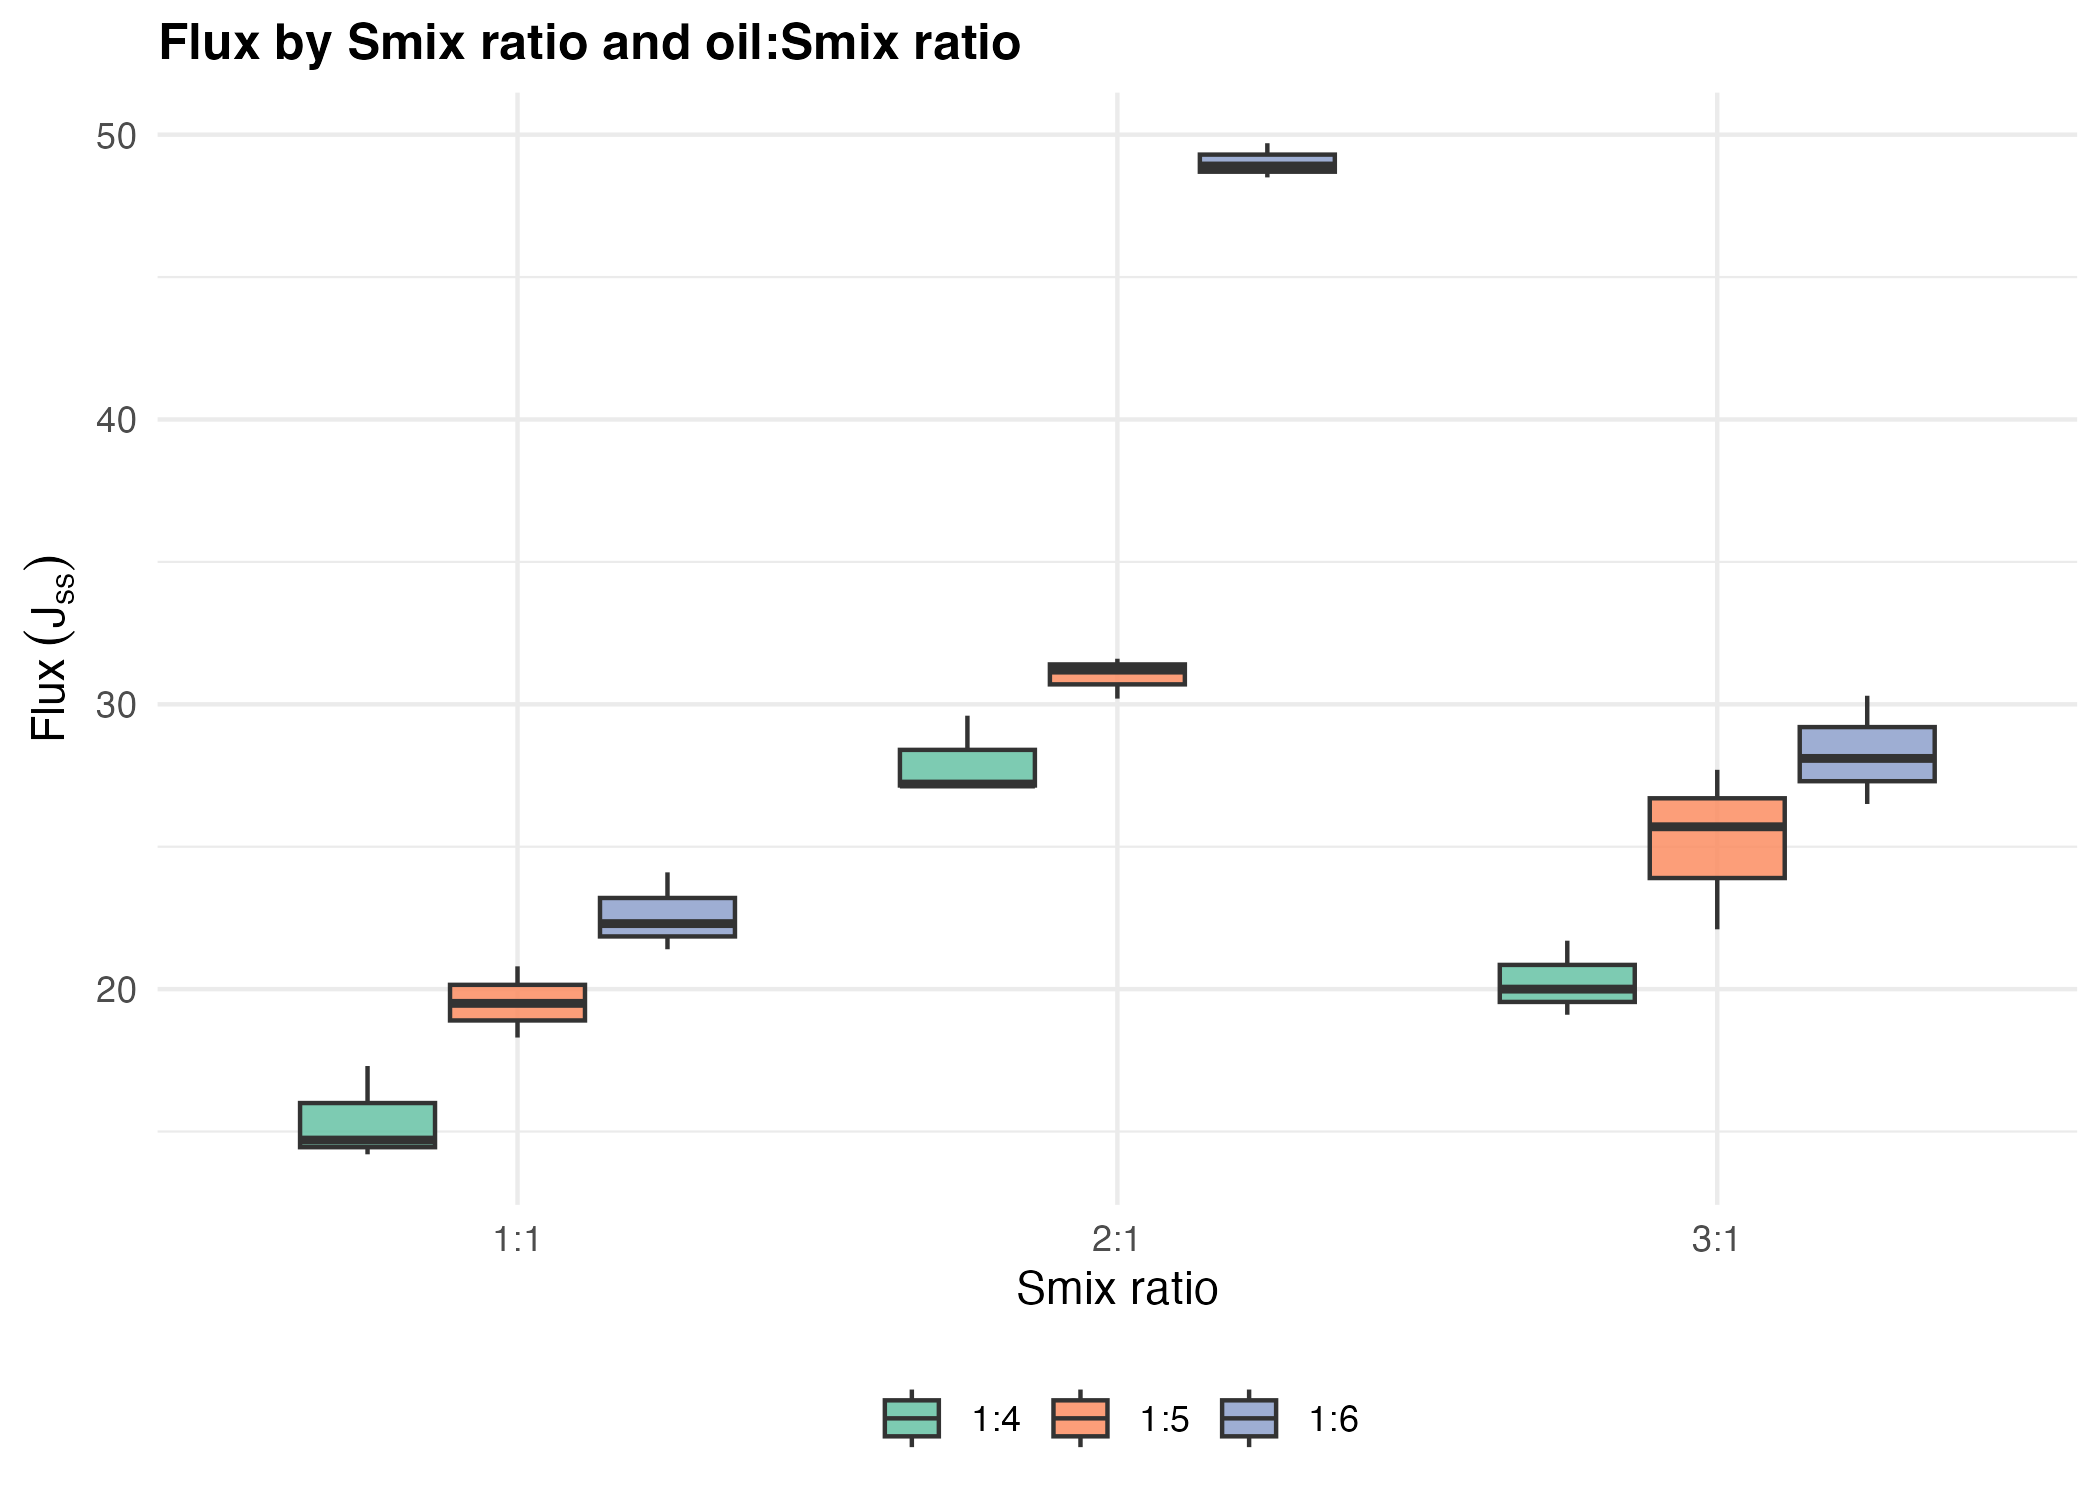
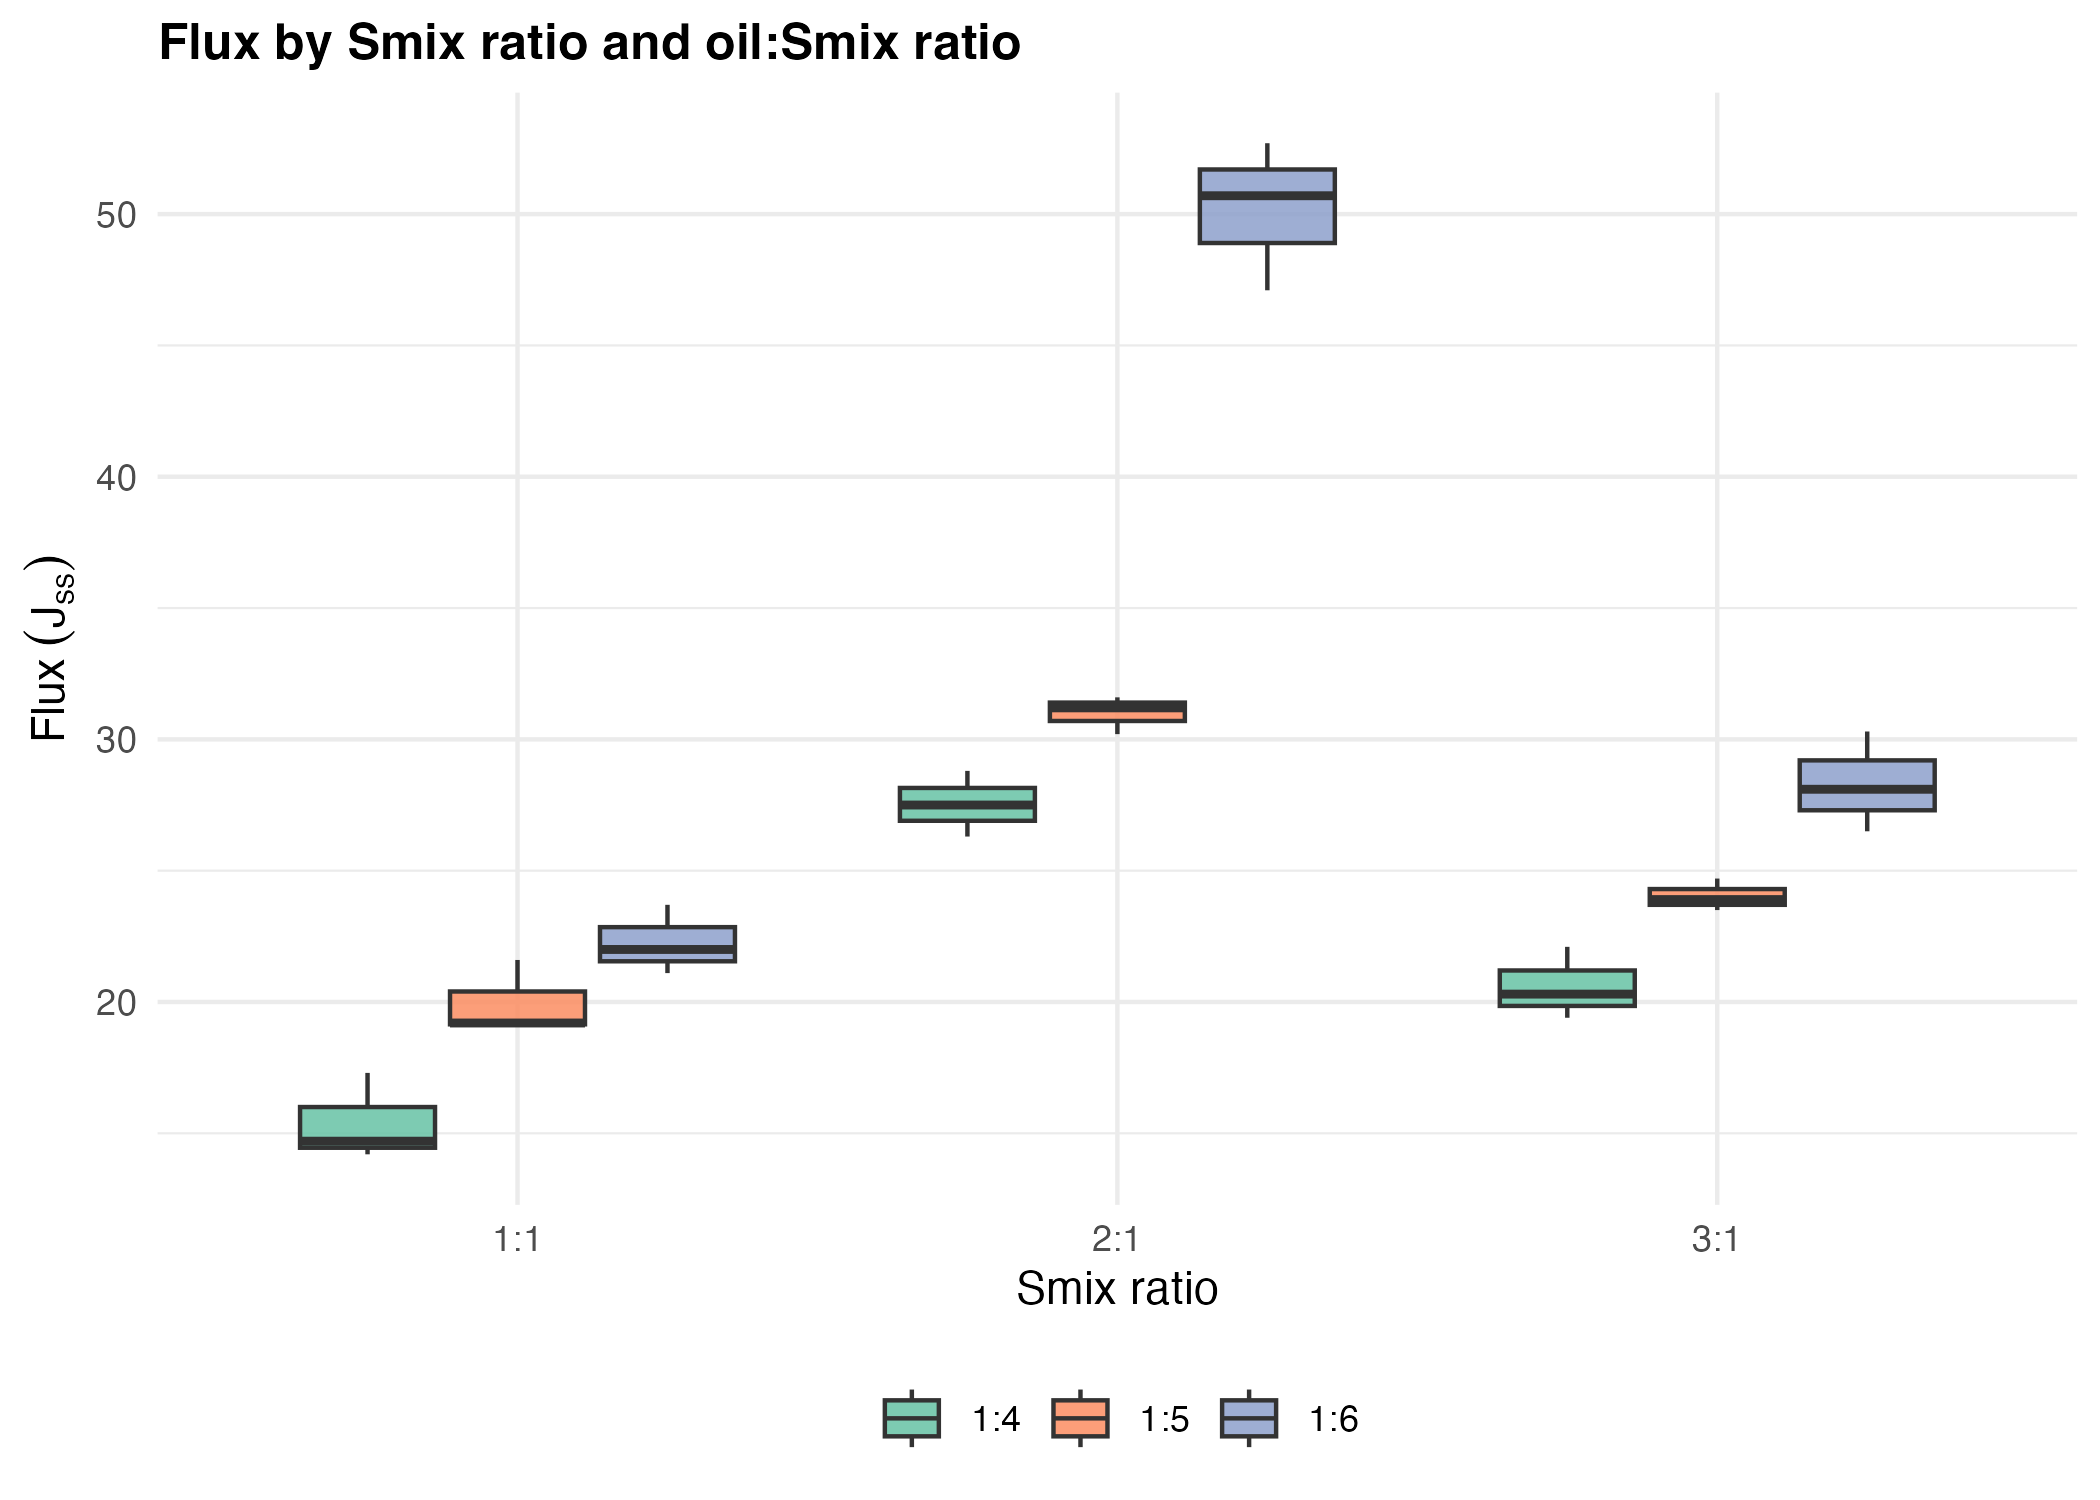
Fix formulation numbering: F6 = Smix 2:1 x Oil:Smix 1:6 to match systematic review

diff --git a/README.md b/README.md
@@ -2,9 +2,9 @@
 ## Factorial design, power simulation, ANOVA, and Tukey HSD
 
 A reproducible R analysis of a **3 × 3 full-factorial experiment** optimizing a
-minoxidil nanoemulsion formulation. Two factors are varied — surfactant
-co-surfactant (Smix) ratio and oil:Smix ratio — and the response is **flux
-(Jss)**, where higher is better.
+minoxidil nanoemulsion formulation (Tamanu oil + minoxidil). Two factors are
+varied — surfactant mixture (**Smix**, Tween 80 : Span 80) ratio and oil:Smix
+ratio — and the response is **flux (Jss)**, where higher is better.
 
 > ⚠ **Note on data:** the response data are **simulated in silico** (`02_generate_data.R`)
 > to illustrate the full statistical workflow. The same pipeline accepts a real
@@ -44,9 +44,9 @@ replicates for confirmatory experiments.
 with normality (assumption satisfied).
 
 **4. Tukey HSD.** The interaction is driven by a **synergy**: formulation
-**Smix 2:1 + oil:Smix 1:6** has the highest flux (≈ +33.6 units vs. baseline,
-p < 0.001), confirming the optimum is the 2:1 × 1:6 combination, not either
-factor alone.
+**F6 (Smix 2:1 + oil:Smix 1:6)** has the highest flux (≈ +33.6 units vs.
+baseline, p < 0.001), confirming the optimum is the 2:1 × 1:6 combination, not
+either factor alone.
 
 ---
 
